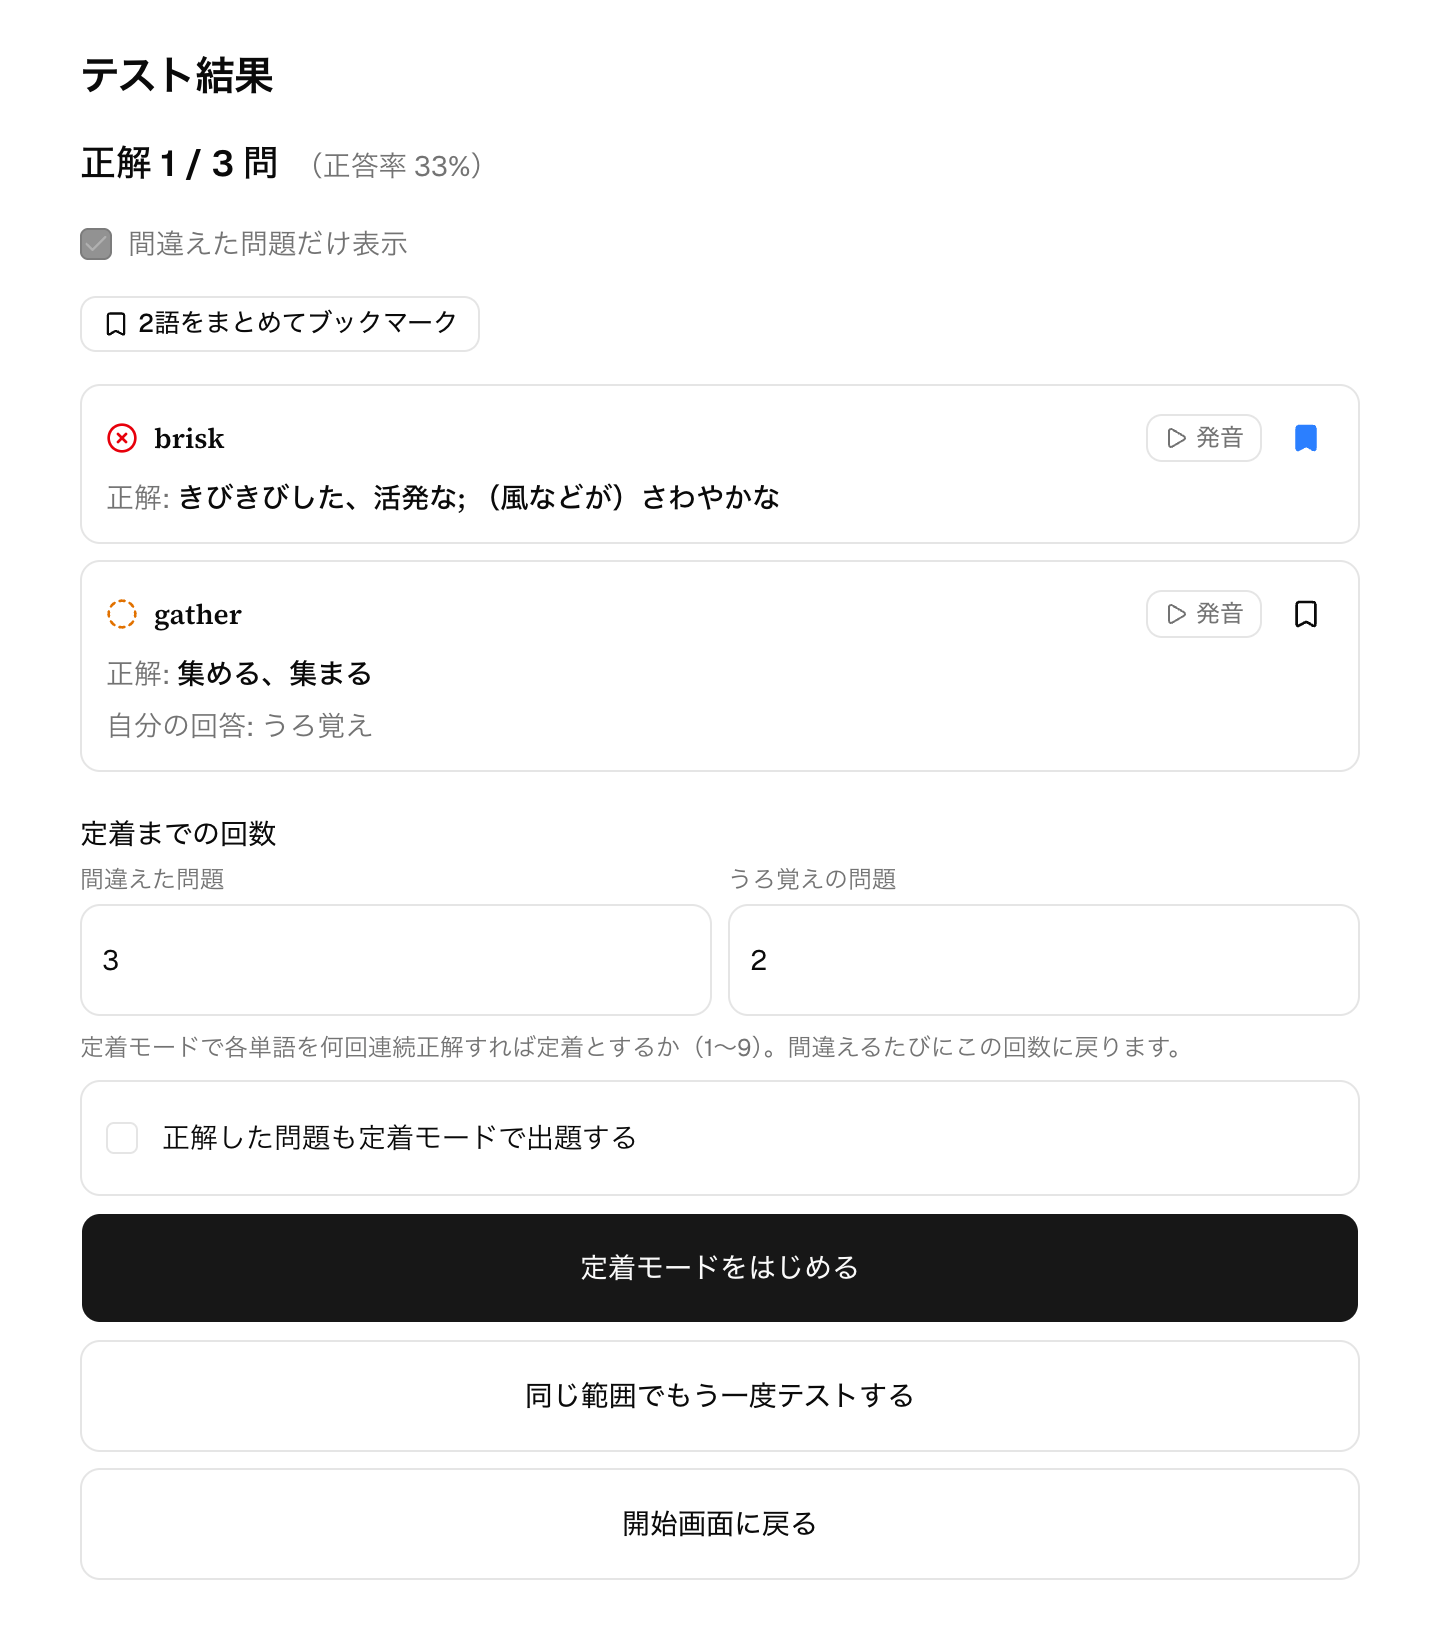
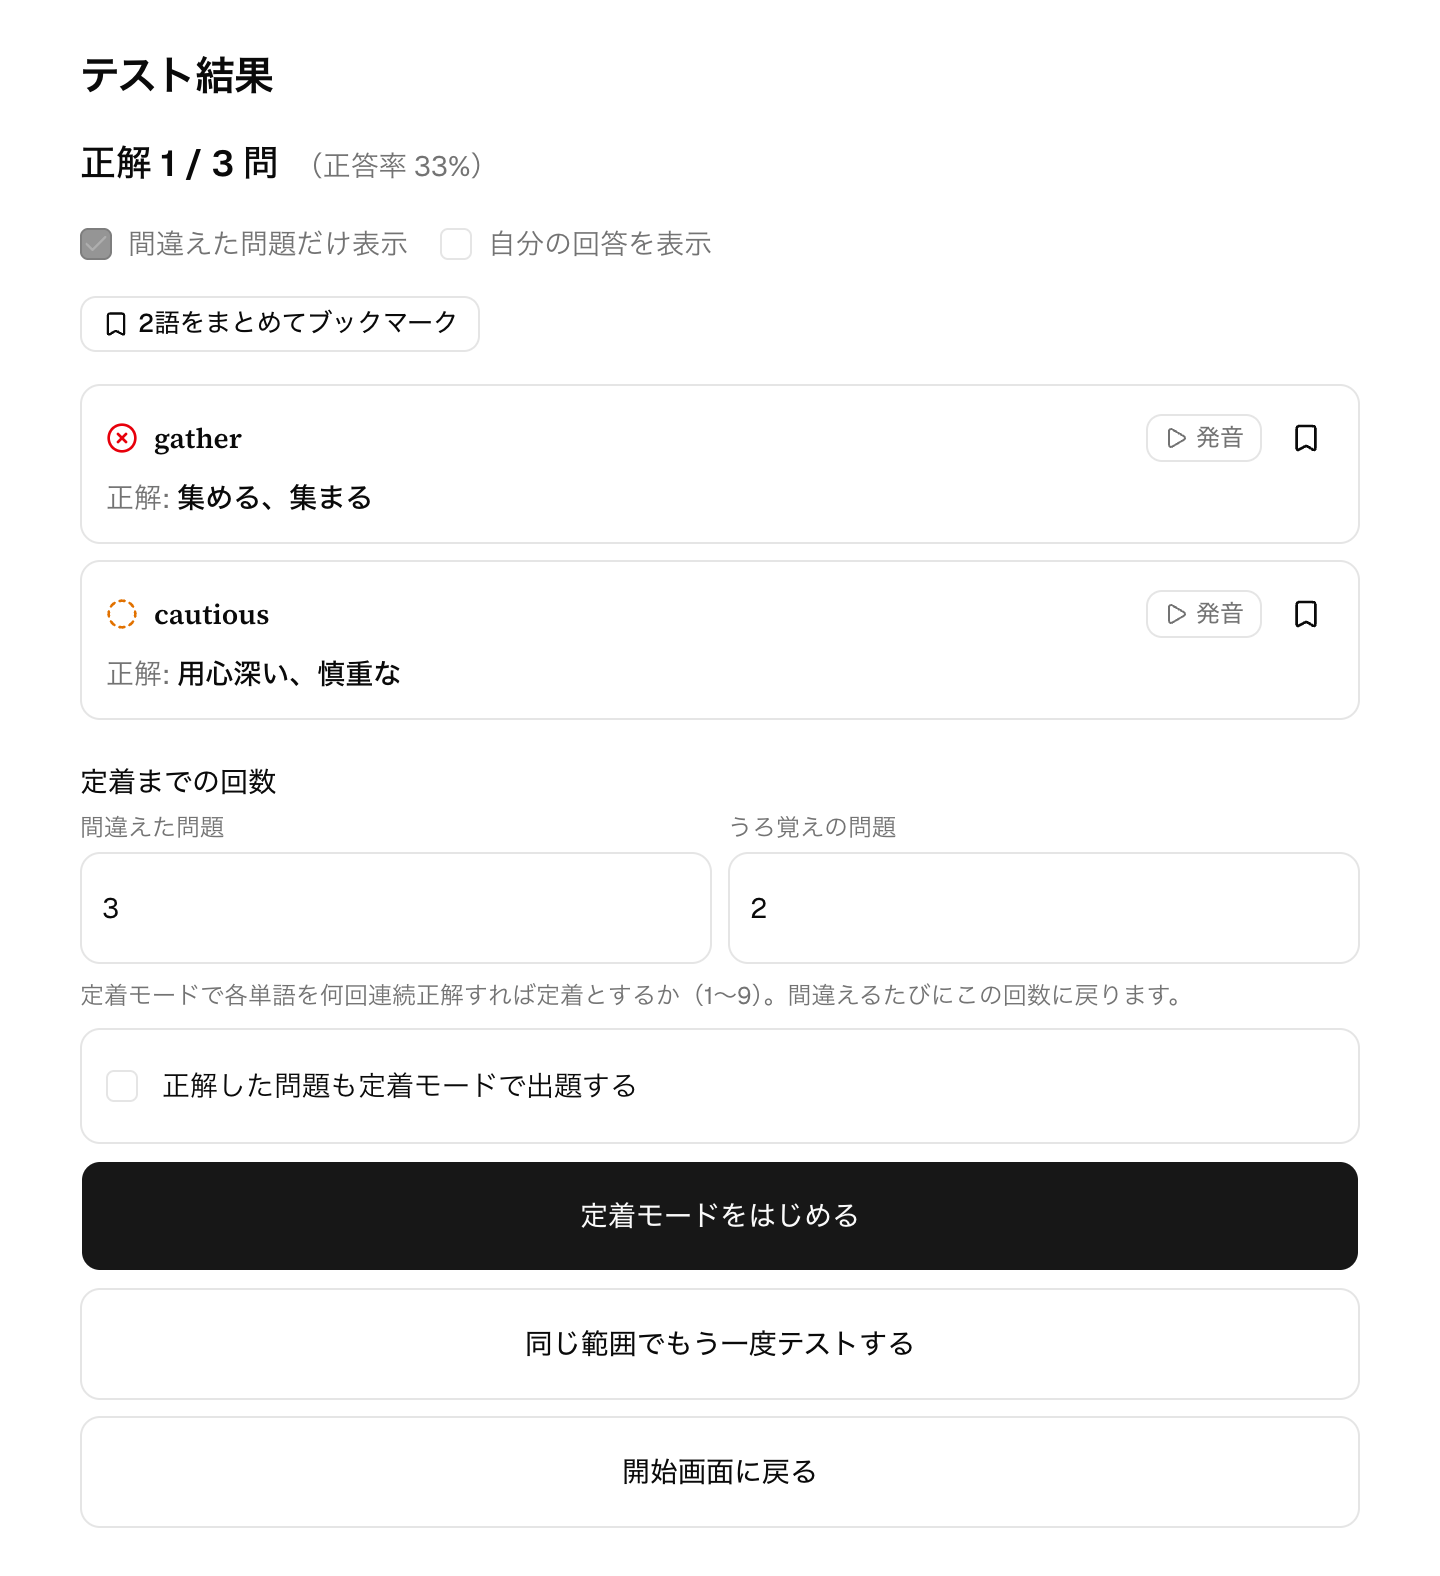
テスト結果の「自分の回答」を既定で非表示にしトグルで表示する
結果一覧の上部に「自分の回答を表示」チェックボックスを追加し、既定は
非表示にした。正解を確認する画面で自分の誤答が常に視界に入るのを避ける
（ADR-0097）。

- 状態は ResultList のローカル state（非永続。結果画面に入るたび非表示へ戻る）
- 非表示中も定着モードの残数バッジは行に残す
- 回答内容を持つ行が無い一覧ではトグル自体を出さない
- docs/features の記述と結果一覧が写るスクリーンショットを更新

diff --git a/src/app/quiz/_components/result-list.tsx b/src/app/quiz/_components/result-list.tsx
@@ -92,6 +92,19 @@ function answerSideDisplayOf(kind: PromptKind, text: string): React.ReactNode {
 }
 
 /**
+ * その行に「自分の回答」として出す内容があるか。自己判定形式の正解・不正解は回答内容を持たない
+ * （`answerDisplay` が null で、VAGUE / GAVE_UP / TIMEOUT のような固定文言にも当たらない）ため false。
+ */
+function hasMyAnswer(row: ResultRow): boolean {
+  return (
+    row.answerDisplay !== null ||
+    row.result === "VAGUE" ||
+    row.result === "GAVE_UP" ||
+    row.result === "TIMEOUT"
+  );
+}
+
+/**
  * 履歴送信の状態（single-flight は quiz-flow 側で担保。再送ボタンは失敗確定後のみ表示）。
  * success は TEST（`submitQuizAnswers`）と DRILL_RETRY（`submitDrillRetry`）、drill-success は
  * DRILL（`submitDrillRound`）の成功。
@@ -212,6 +225,8 @@ export function ResultList({
   bulkBookmarking,
 }: Props) {
   const [wrongOnly, setWrongOnly] = useState(false);
+  // 「自分の回答」の表示切替。既定は非表示で、確認したいときだけ開く（ADR-0097）。
+  const [showMyAnswer, setShowMyAnswer] = useState(false);
   // 残数が 1..9 の整数のときだけ定着モードを開始できる（空欄・範囲外は開始をゲート）。
   // 「正解した問題」の回数は出題トグル ON のときだけ効かせる（OFF は正解語を投入しないため不問）。
   const remainingValid =
@@ -224,6 +239,9 @@ export function ResultList({
   const rate = total === 0 ? 0 : Math.round((correctCount / total) * 100);
   // 表示専用フィルタ。集計（correctCount 等）は全行ベースのまま、一覧だけを誤答（CORRECT 以外）に絞る。
   const visibleRows = wrongOnly ? rows.filter((r) => r.result !== "CORRECT") : rows;
+  // 「自分の回答を表示」トグルを出すか。誤答フィルタと同じく全行ベースで判定する（絞り込みで
+  // トグルが出入りしないように）。
+  const anyMyAnswer = rows.some(hasMyAnswer);
   // 誤答のみ（トグル OFF）かつ全問正解だと定着対象が 0 件になるため開始を抑止する。
   const noDrillWords = !drillIncludeCorrect && wrongCount === 0;
   const skippedWordIds =
@@ -266,17 +284,24 @@ export function ResultList({
       </p>
 
       {total > 0 ? (
-        <Label
-          htmlFor="result-wrong-only"
-          className="text-muted-foreground flex cursor-pointer items-center gap-2 text-sm font-normal"
-        >
-          <Checkbox
+        <div className="flex flex-wrap items-center gap-x-4 gap-y-2">
+          <ListToggle
             id="result-wrong-only"
+            label="間違えた問題だけ表示"
             checked={wrongOnly}
-            onCheckedChange={(checked) => setWrongOnly(checked === true)}
+            onCheckedChange={setWrongOnly}
           />
-          間違えた問題だけ表示
-        </Label>
+          {/* 「自分の回答」は既定で非表示（正解を先に確認したいときに視界へ入れない）。
+              回答内容を持つ行が 1 つも無い一覧（自己判定だけの結果など）では効かないため出さない。 */}
+          {anyMyAnswer ? (
+            <ListToggle
+              id="result-show-my-answer"
+              label="自分の回答を表示"
+              checked={showMyAnswer}
+              onCheckedChange={setShowMyAnswer}
+            />
+          ) : null}
+        </div>
       ) : null}
 
       {/* 誤答だけを表示している間の一括ブックマーク導線。誤答 0 件・状態マップ未取得では出さない
@@ -378,13 +403,10 @@ export function ResultList({
                       </div>
                     ) : null}
                   </div>
-                  {row.answerDisplay !== null ||
-                  row.result === "GAVE_UP" ||
-                  row.result === "TIMEOUT" ||
-                  row.result === "VAGUE" ||
-                  remainingByWordId !== null ? (
+                  {/* 「自分の回答」行。非表示のときも残数バッジ（DRILL）はこの行に残す。 */}
+                  {(showMyAnswer && hasMyAnswer(row)) || remainingByWordId !== null ? (
                     <div className="flex w-full items-start gap-2">
-                      {row.result === "VAGUE" ? (
+                      {!showMyAnswer ? null : row.result === "VAGUE" ? (
                         // うろ覚えは正解時のみ選べる＝回答内容は正解と同じ。全形式とも「うろ覚え」と表示する。
                         <p className="text-muted-foreground text-sm">自分の回答: うろ覚え</p>
                       ) : row.answerDisplay !== null ? (
@@ -615,6 +637,33 @@ export function ResultList({
         )}
       </div>
     </div>
+  );
+}
+
+/** 結果一覧の表示切替（誤答フィルタ・自分の回答）の 1 項目。 */
+function ListToggle({
+  id,
+  label,
+  checked,
+  onCheckedChange,
+}: {
+  id: string;
+  label: string;
+  checked: boolean;
+  onCheckedChange: (checked: boolean) => void;
+}) {
+  return (
+    <Label
+      htmlFor={id}
+      className="text-muted-foreground flex cursor-pointer items-center gap-2 text-sm font-normal"
+    >
+      <Checkbox
+        id={id}
+        checked={checked}
+        onCheckedChange={(next) => onCheckedChange(next === true)}
+      />
+      {label}
+    </Label>
   );
 }
 

diff --git a/docs/adr/0097-result-my-answer-hidden-by-default.md b/docs/adr/0097-result-my-answer-hidden-by-default.md
@@ -1,0 +1,39 @@
+# ADR-0097: 結果一覧の「自分の回答」は既定で非表示にし、トグルで表示する
+
+- ステータス: 提案
+- 確信度: 高
+- 起票日: 2026-08-09
+
+## 背景
+
+テスト結果・ラウンド結果の一覧（`ResultList`）は、各行に「正解」と「自分の回答」を常に並べて出していた。「自分の回答」は四択・多義語選択で選んだ内容、うろ覚え・わからなかった・時間切れの固定文言で、正解行の下に 1 行を占める。
+
+結果画面は「正解を確認して覚え直す」ために見る画面で、自分の誤答は毎回必要な情報ではない。常時表示だと 1 行あたりの高さが増えて一覧の一覧性が落ち、正解より先に自分の誤答が目に入る（2026-08-09 ユーザー依頼「非表示に切り替えられるようにしたい／デフォルトでは非表示」）。
+
+## 決定内容
+
+1. **「自分の回答」は既定で非表示**にし、結果一覧上部のチェックボックス「自分の回答を表示」で表示する。既存の「間違えた問題だけ表示」と同じ行に並べる（表示切替の導線を 1 か所にまとめる）。
+2. **状態は `ResultList` のローカル state**（`showMyAnswer`）で持ち、永続化しない。結果画面へ入るたびに既定（非表示）へ戻る。「間違えた問題だけ表示」と同じ扱い。
+3. **非表示中も定着モードの残数バッジ（あと◯回 / 定着 / 削除済み）は行に残す**。バッジは「自分の回答」行の右端に置いているため、行そのものは残数がある限り描画し、左側の回答テキストだけを落とす。
+4. **回答内容を持つ行が 1 つも無い一覧ではトグルを出さない**（自己判定だけで構成され、うろ覚え・わからなかった・時間切れも無い結果）。押しても何も変わらないトグルを置かないため。判定は誤答フィルタと同じく全行ベースで行い、絞り込みでトグルが出入りしないようにする。
+5. **正解の表示は変えない**（常時表示）。隠す対象は自分の回答だけ。
+
+## 採らなかった代替案
+
+- **常時表示のまま（従来）** — 依頼の目的（既定で視界から外す）を満たさない。
+- **ユーザー設定（`settings/quiz-defaults`）へ永続化する** — 設定項目が増える割に、切替は結果画面 1 枚の一時的な見せ方の問題。同種の「間違えた問題だけ表示」も非永続で、揃えた。
+- **行ごとの個別開閉（アコーディオン）** — 一覧を見比べたいときに行数分の操作が必要になる。一括切替のほうが目的（復習中に必要になったらまとめて確認する）に合う。
+- **正解も同時に隠して「答え合わせ」形式にする** — 正解の確認が結果画面の主目的なので隠さない。
+
+## 影響
+
+- 定着モードのラウンド結果・再テスト結果（`DRILL` / `DRILL_RETRY`）でも同じ挙動になる（同一コンポーネント）。残数バッジは決定 3 のとおり非表示中も出る。
+- 結果一覧の行は既定で 1 行ぶん低くなる。`docs/features/word-quiz.md` / `drill.md` の該当記述と、結果一覧が写るスクリーンショット（`quiz-result.png` / `drill-round-result.png` / `bookmark-quiz-result*.png`）を更新した。
+- 「自分の回答」行の描画条件が「回答内容がある」から「（表示 ON かつ回答内容がある）または残数バッジがある」に変わる。回答内容の有無の判定は `hasMyAnswer()` に切り出し、トグルの表示可否と行の描画条件で共有する。
+
+## 根拠（コード・文書参照）
+
+- `src/app/quiz/_components/result-list.tsx`（`showMyAnswer` state・`hasMyAnswer()`・`ListToggle`）
+- ADR-0035（自己判定の「うろ覚え」。回答内容を持たない形式がある根拠）
+- ADR-0094 / `bulk-bookmark-targets.ts`（同じ一覧上部に並ぶ「間違えた問題だけ表示」と一括ブックマーク導線）
+- 2026-08-09 ユーザー依頼「テスト結果画面で自分の回答を非表示に切り替えられるようにしたい。デフォルトでは非表示とし、確認したい場合だけ表示できるように」

diff --git a/docs/features/drill.md b/docs/features/drill.md
@@ -36,7 +36,9 @@
 ![定着モードのラウンド結果](./images/drill-round-result.png)
 
 ラウンドを終えると、単語ごとに残り回数が「あと◯回」または「定着」のバッジで示されます。正解すると残りが
-1 減り、間違い・うろ覚えのときは設定した回数に戻ります。まだ定着していない単語があれば「次のラウンドへ」で
+1 減り、間違い・うろ覚えのときは設定した回数に戻ります。単語テストの結果と同じく、自分の回答は既定では出さず
+「自分の回答を表示」をオンにしたときだけ表示されます（オフでも残り回数のバッジは出ます）。
+まだ定着していない単語があれば「次のラウンドへ」で
 続けられ、残り回数を変えずにもう一度確かめたいときは「同じ問題でもう一度テストする」を使います。
 
 ## 補足

diff --git a/docs/adr/README.md b/docs/adr/README.md
@@ -97,6 +97,7 @@
 | [0070](0070-bookmark-all-scope-quiz.md) | ブックマーク全件モード（掲載箇所なし出題、0022 の明示的例外） | 高 | — |
 | [0072](0072-quiz-order-by-occurrence-number.md) | 掲載番号順出題（出題順の決定を buildQuiz に集約、0039 の明示的例外） | 高 | — |
 | [0074](0074-quiz-question-count-sampling.md) | 出題数の指定（範囲からランダム抽選、再テストは再抽選） | 高 | — |
+| [0097](0097-result-my-answer-hidden-by-default.md) | 結果一覧の「自分の回答」は既定で非表示・トグルで表示（非永続。残数バッジは非表示中も残す） | 高 | — |
 
 ### E. drill（定着モード）
 
